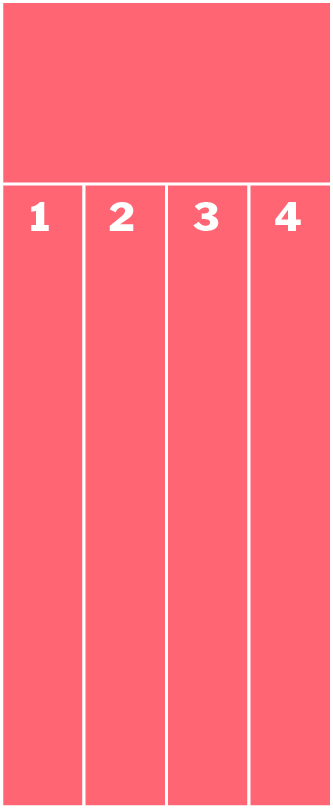
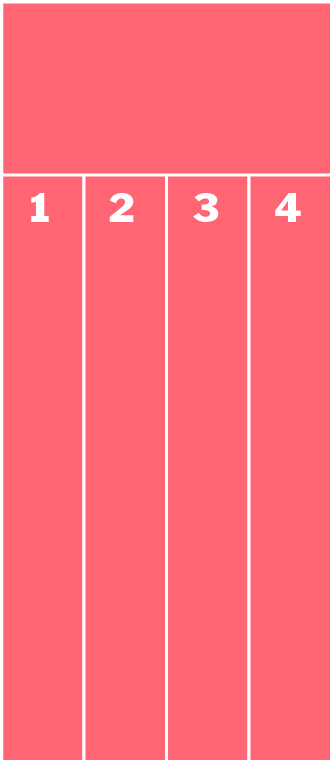
madlib java 2

Changed region(s): [[0.0, 0.2107, 0.991, 0.301], [0.0, 0.9935, 0.991, 1.0]]

diff --git a/madLibs/v2-final/index.html b/madLibs/v2-final/index.html
@@ -21,7 +21,7 @@
         <h1>Create Your<br>Own Race</h1>
 
         <div id="images">
-            <img src="images/track.svg" alt="track" width="333" height="767">
+            <img src="images/track.jpg" alt="track" width="333" height="764">
             <img src="images/podium.svg" alt="podium" width="385" height="265" id="podium" class="hidden">
         </div>
 

diff --git a/madLibs/v2-final/styles.css b/madLibs/v2-final/styles.css
@@ -134,10 +134,12 @@ span {
     flex: 1;
     position: relative;
     transition: all 1s ease;
+    padding-bottom: 0;
+    margin-bottom: 0;
 }
 
 .finish {
-    transform: translateY(-500px);
+    transform: translateY(-470px);
 }
 
 #images {
